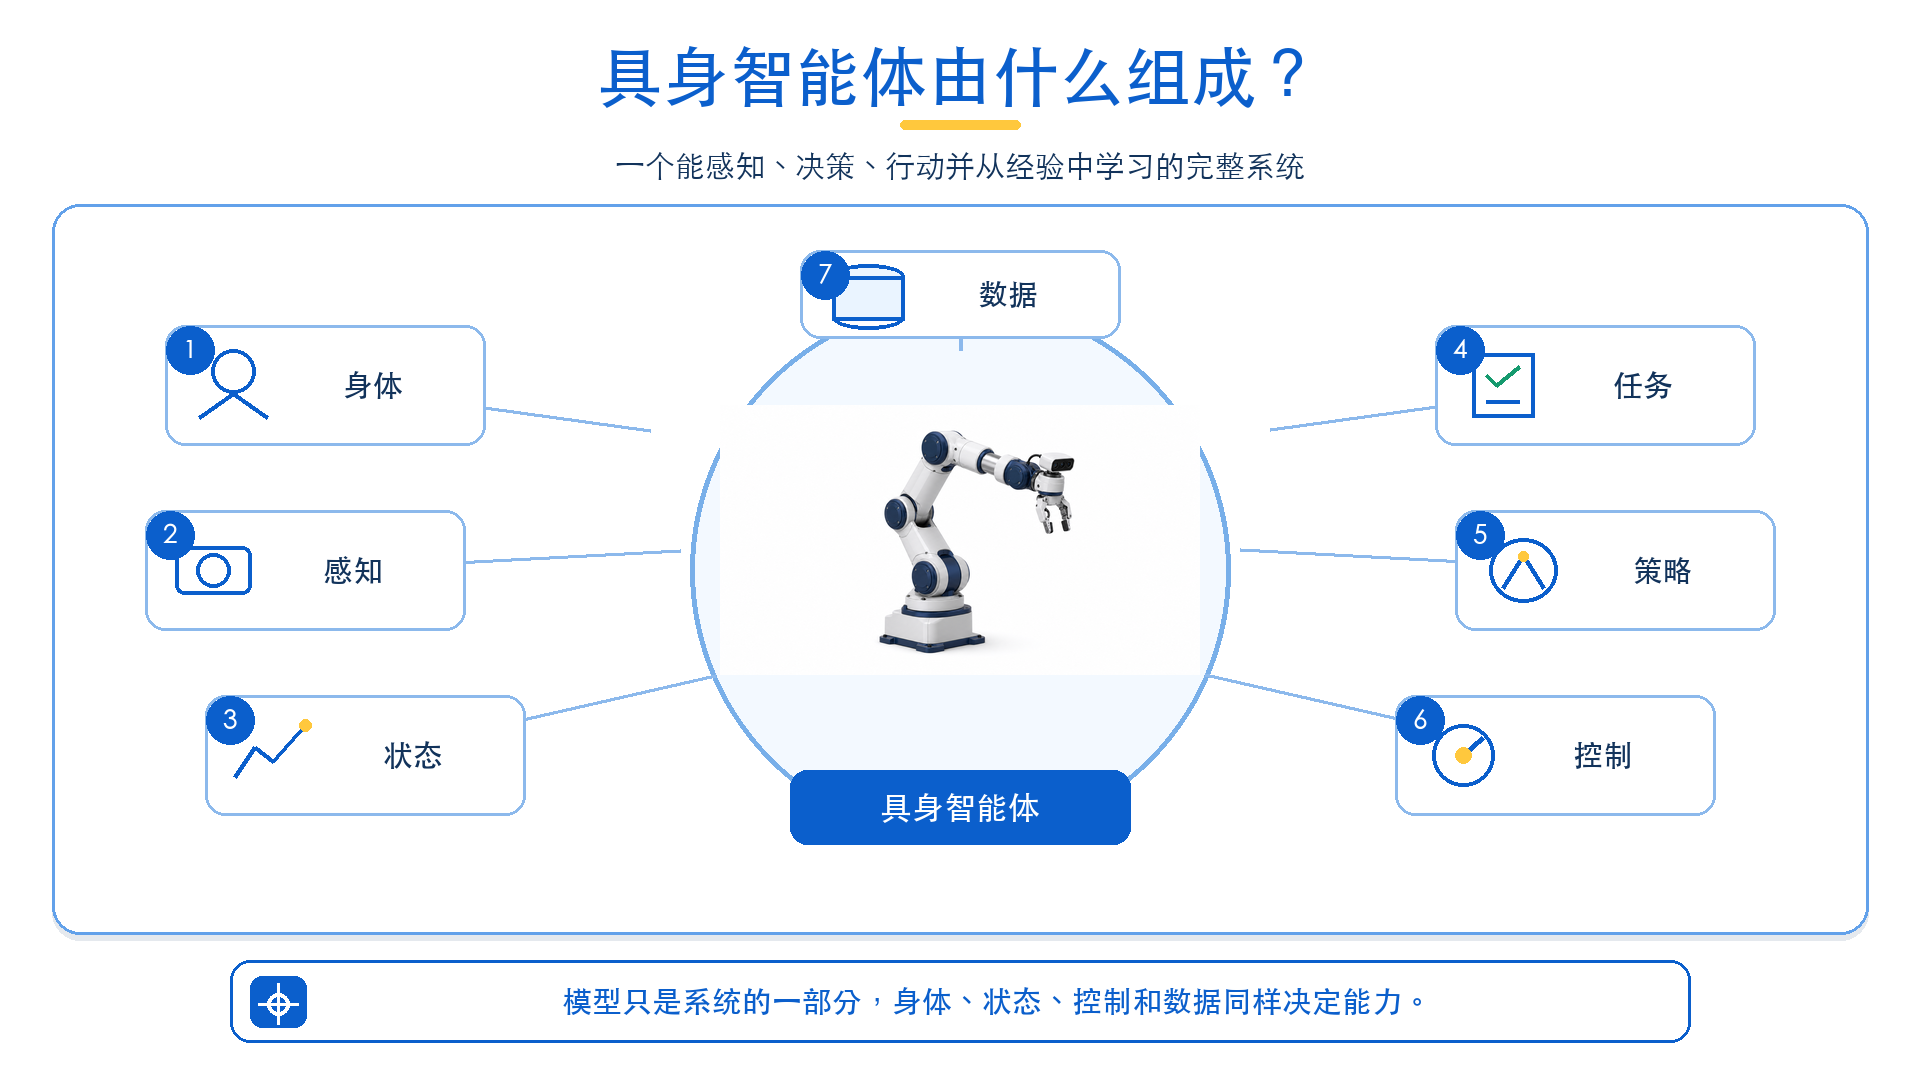
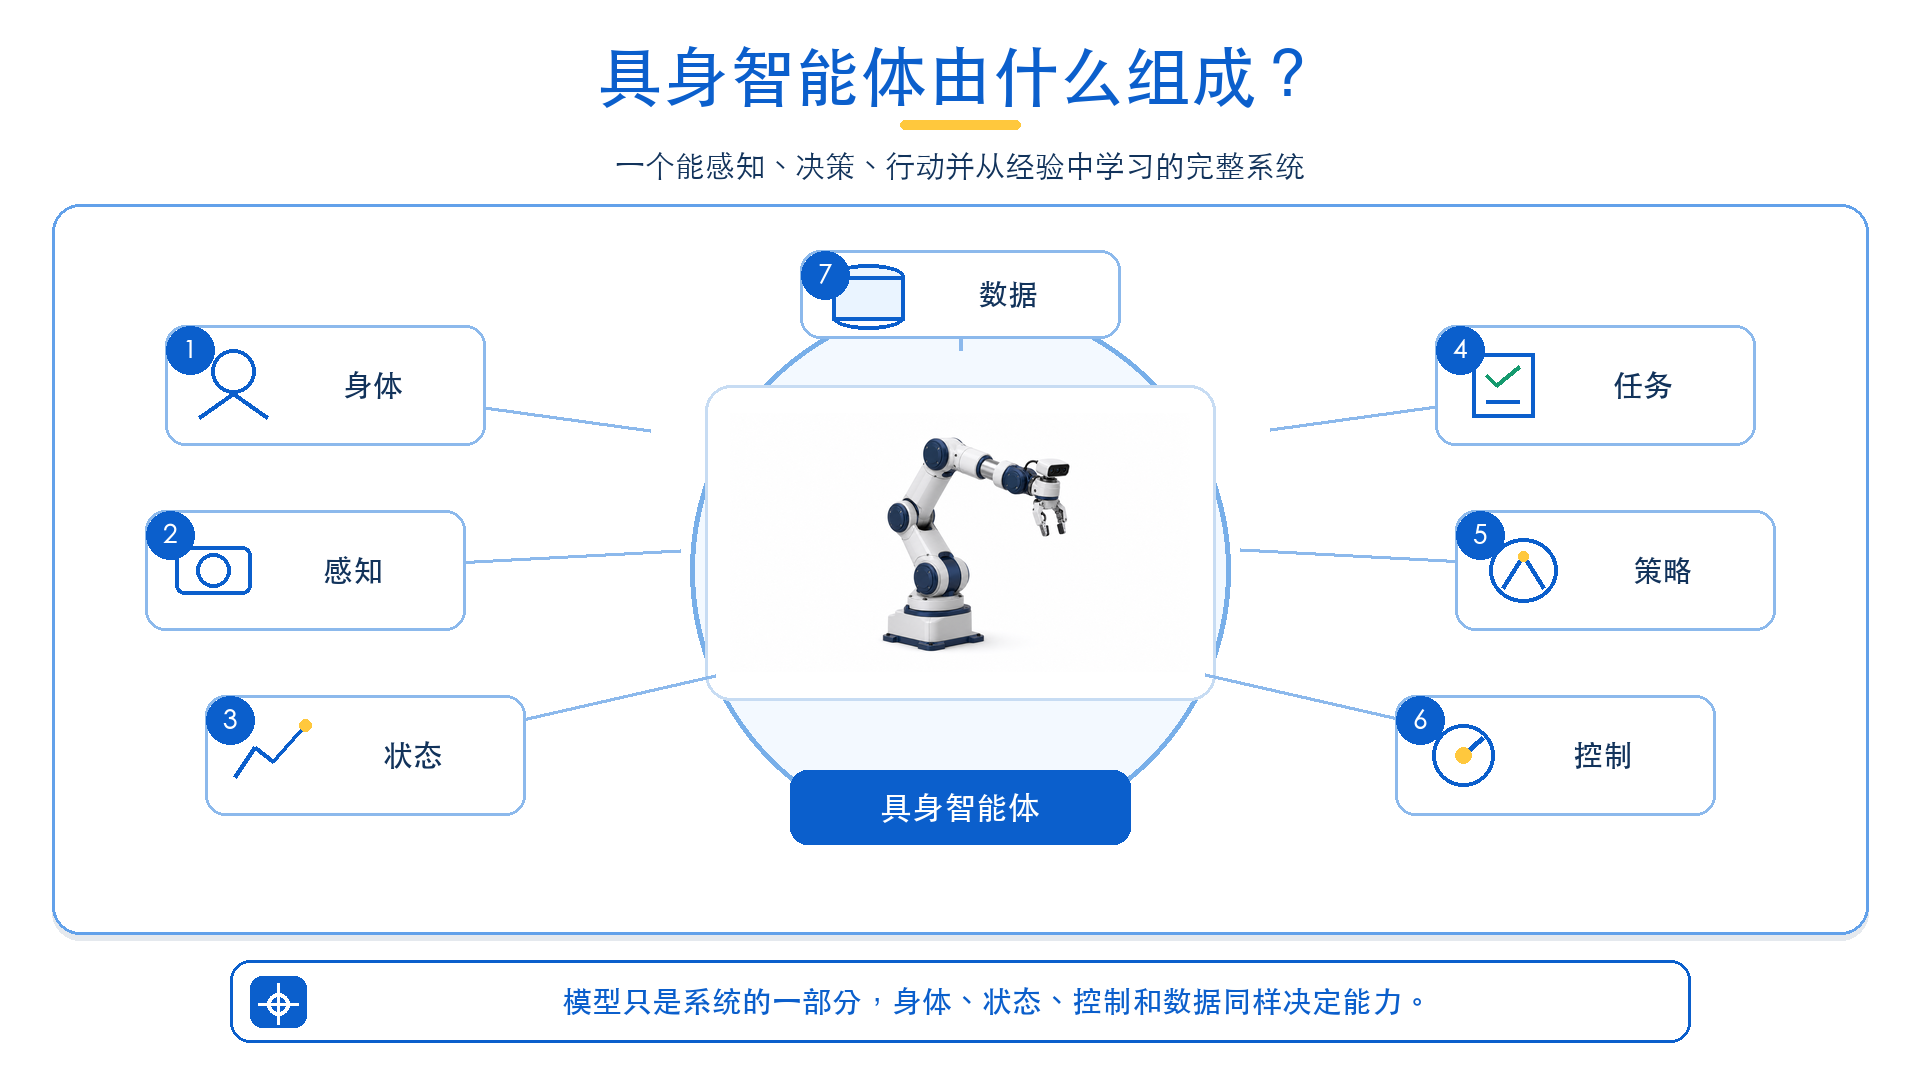
修复概念图审查问题

diff --git a/tools/lecture_infographics/render.py b/tools/lecture_infographics/render.py
@@ -12,15 +12,14 @@ from .components import (
     fit_text,
     font,
 )
+from .layouts_a import render_a
 from .manifest import FigureSpec
 from .theme import THEME
-from .layouts_a import render_a
 
 
 W, H = 1920, 1080
 BLUE = THEME.primary
 NAVY = THEME.primary_dark
-CYAN = THEME.primary_soft
 YELLOW = THEME.accent
 TEXT = THEME.text
 MUTED = THEME.muted
@@ -28,168 +27,11 @@ WHITE = THEME.canvas
 SRGB_PROFILE = ImageCms.ImageCmsProfile(ImageCms.createProfile("sRGB")).tobytes()
 
 
-def robot_arm(draw: ImageDraw.ImageDraw, x: int, y: int, scale: float = 1.0,
-              color: str = "#E8EDF3") -> None:
-    """Draw a clean, textbook-style six-axis robot arm."""
-    def p(dx: int, dy: int) -> tuple[int, int]:
-        return x + int(dx * scale), y + int(dy * scale)
-    def joint(cx: int, cy: int, r: int) -> None:
-        px, py = p(cx, cy)
-        rr = int(r * scale)
-        draw.ellipse((px - rr, py - rr, px + rr, py + rr), fill=WHITE, outline=NAVY, width=max(2, int(4 * scale)))
-        draw.ellipse((px - rr // 2, py - rr // 2, px + rr // 2, py + rr // 2), fill=BLUE)
-    width = max(12, int(34 * scale))
-    draw.rounded_rectangle((*p(-85, 125), *p(85, 170)), radius=int(18 * scale), fill="#CBD5E1", outline=NAVY, width=3)
-    draw.line((*p(0, 128), *p(-8, 54)), fill=color, width=width)
-    draw.line((*p(-8, 54), *p(58, -28)), fill=color, width=width)
-    draw.line((*p(58, -28), *p(130, 20)), fill=color, width=width)
-    joint(0, 112, 31); joint(-8, 54, 27); joint(58, -28, 25); joint(130, 20, 22)
-    draw.line((*p(130, 20), *p(157, 58)), fill=NAVY, width=max(5, int(10 * scale)))
-    draw.line((*p(157, 58), *p(147, 83)), fill=NAVY, width=max(4, int(7 * scale)))
-    draw.line((*p(157, 58), *p(170, 80)), fill=NAVY, width=max(4, int(7 * scale)))
-
-
-def sensor_icon(draw: ImageDraw.ImageDraw, x: int, y: int, kind: str) -> None:
-    if kind == "camera":
-        rounded(draw, (x - 58, y - 38, x + 58, y + 38), fill="#243B53", outline=NAVY, width=3, radius=12)
-        draw.ellipse((x - 25, y - 25, x + 25, y + 25), fill="#72D4FF", outline=WHITE, width=5)
-        draw.ellipse((x - 9, y - 9, x + 9, y + 9), fill=BLUE)
-    elif kind == "compute":
-        rounded(draw, (x - 56, y - 48, x + 56, y + 48), fill="#EAF5FF", outline=BLUE, width=4, radius=12)
-        for k in range(-2, 3):
-            draw.line((x - 72, y + k * 16, x - 56, y + k * 16), fill=BLUE, width=4)
-            draw.line((x + 56, y + k * 16, x + 72, y + k * 16), fill=BLUE, width=4)
-        draw.rectangle((x - 25, y - 22, x + 25, y + 22), fill=BLUE)
-    elif kind == "shield":
-        draw.polygon([(x, y - 58), (x + 50, y - 36), (x + 42, y + 28), (x, y + 62), (x - 42, y + 28), (x - 50, y - 36)], fill="#EAF8F2", outline="#1A9B67")
-        draw.line((x - 22, y, x - 5, y + 18, x + 27, y - 23), fill="#1A9B67", width=9)
-    else:
-        draw.ellipse((x - 48, y - 48, x + 48, y + 48), fill=CYAN, outline=BLUE, width=4)
-        draw.text((x, y), kind[:1], font=font(38, True), fill=BLUE, anchor="mm")
-
-
 def pill(draw: ImageDraw.ImageDraw, box: tuple[int, int, int, int], text_value: str,
          fill: str = WHITE, outline: str = "#8CB9EC", text_fill: str = TEXT,
          size: int = 26, bold: bool = True) -> None:
     rounded(draw, box, fill=fill, outline=outline, width=2, radius=16)
     fit_text(draw, text_value, box, size, 24, bold, text_fill)
-
-
-def visual_1_1(draw: ImageDraw.ImageDraw, spec: FigureSpec) -> None:
-    rounded(draw, (125, 300, 795, 830), fill="#F4F7FB", outline="#B4C8E0")
-    rounded(draw, (1125, 300, 1795, 830), fill=CYAN, outline=BLUE)
-    draw.text((460, 350), "数字 AI", font=font(42, True), fill=NAVY, anchor="mm")
-    draw.text((1460, 350), "具身智能", font=font(42, True), fill=NAVY, anchor="mm")
-    rounded(draw, (275, 430, 645, 625), fill=WHITE, outline="#86A9CE")
-    for i, width in enumerate((240, 190, 220, 145)):
-        draw.rounded_rectangle((330, 470 + i * 30, 330 + width, 482 + i * 30), radius=6, fill="#7C9CBE")
-    draw.text((460, 690), "输出信息", font=font(32, True), fill=MUTED, anchor="mm")
-    robot_arm(draw, 1415, 500, .9)
-    draw.rectangle((1260, 730, 1630, 757), fill="#D8E1EA")
-    draw.ellipse((1560, 660, 1620, 720), fill=YELLOW, outline="#C79400", width=3)
-    arrow(draw, (820, 565), (1090, 565), color=BLUE, width=10)
-    draw.text((955, 515), "行动", font=font(31, True), fill=BLUE, anchor="mm")
-    draw.arc((815, 600, 1095, 780), 10, 170, fill="#B66B0D", width=7)
-    draw.text((955, 780), "环境反馈", font=font(28, True), fill="#B66B0D", anchor="mm")
-
-
-def visual_1_2(draw: ImageDraw.ImageDraw, spec: FigureSpec) -> None:
-    cx, cy = 960, 575
-    draw.ellipse((760, 375, 1160, 775), fill="#F2F8FF", outline=BLUE, width=5)
-    robot_arm(draw, 915, 470, .62)
-    draw.text((960, 720), "具身智能体", font=font(34, True), fill=BLUE, anchor="mm")
-    positions = [(360, 350), (620, 300), (1300, 300), (1560, 350), (420, 760), (730, 850), (1490, 760)]
-    for index, (label, (x, y)) in enumerate(zip(spec.labels, positions)):
-        arrow(draw, (cx + (-1 if x < cx else 1) * 205, cy), (x + (70 if x < cx else -70), y), color="#8AB5E9", width=4)
-        draw.ellipse((x - 78, y - 78, x + 78, y + 78), fill=WHITE, outline=BLUE, width=4)
-        draw.text((x, y - 9), str(index + 1), font=font(28, True), fill=YELLOW, anchor="mm")
-        draw.text((x, y + 30), label, font=font(28, True), fill=NAVY, anchor="mm")
-
-
-def visual_1_4(draw: ImageDraw.ImageDraw, spec: FigureSpec) -> None:
-    x_positions = (220, 570, 920, 1270, 1620)
-    heights = (215, 285, 355, 425, 495)
-    colors = ("#EAF5FF", "#F2F8FF", "#EAF8F2", "#FFF6D7", "#FFF0E9")
-    for i, (label, x, h, color) in enumerate(zip(spec.labels, x_positions, heights, colors)):
-        y2 = 845
-        rounded(draw, (x - 135, y2 - h, x + 135, y2), fill=color, outline=BLUE, radius=24)
-        draw.ellipse((x - 48, y2 - h + 35, x + 48, y2 - h + 131), fill=WHITE, outline=BLUE, width=3)
-        draw.text((x, y2 - h + 83), str(i + 1), font=font(34, True), fill=BLUE, anchor="mm")
-        fit_text(draw, label, (x - 115, y2 - h + 145, x + 115, y2 - 25), 31, 24, True)
-        if i:
-            arrow(draw, (x - 210, y2 - h // 2), (x - 150, y2 - h // 2), color="#83AEE0", width=5)
-    draw.text((960, 300), "可靠执行  →  从示范学习  →  探索优化  →  多模态泛化  →  预测未来",
-              font=font(28, True), fill=NAVY, anchor="mm")
-
-
-def visual_1_5(draw: ImageDraw.ImageDraw, spec: FigureSpec) -> None:
-    inputs = [(260, 390, "视觉", "camera"), (260, 560, "语言", "L"), (260, 730, "机器人状态", "S")]
-    for x, y, label, icon in inputs:
-        sensor_icon(draw, x, y, icon)
-        pill(draw, (340, y - 43, 600, y + 43), label)
-        arrow(draw, (610, y), (760, 570), width=6)
-    rounded(draw, (770, 380, 1135, 760), fill="#EEF5FF", outline=BLUE, width=4)
-    draw.text((952, 445), "VLA", font=font(62, True), fill=BLUE, anchor="mm")
-    draw.text((952, 525), "多模态融合", font=font(32, True), fill=NAVY, anchor="mm")
-    draw.text((952, 585), "理解任务与场景", font=font(25), fill=MUTED, anchor="mm")
-    draw.text((952, 635), "生成动作建议", font=font(25), fill=MUTED, anchor="mm")
-    arrow(draw, (1145, 570), (1270, 570), width=8)
-    pill(draw, (1280, 430, 1535, 545), "动作建议", fill="#FFF7DC", outline="#E0B027", size=31)
-    arrow(draw, (1408, 560), (1408, 650), color="#1A9B67", width=7)
-    pill(draw, (1260, 665, 1555, 800), "控制与安全", fill="#ECF9F4", outline="#42A982", text_fill="#147A58", size=31)
-    robot_arm(draw, 1700, 570, .45)
-
-
-def visual_1_6(draw: ImageDraw.ImageDraw, spec: FigureSpec) -> None:
-    rounded(draw, (105, 350, 490, 795), fill="#F8FBFF")
-    draw.text((298, 400), "当前场景", font=font(34, True), fill=NAVY, anchor="mm")
-    robot_arm(draw, 250, 510, .55)
-    draw.rectangle((180, 720, 420, 740), fill="#CAD4DE")
-    draw.ellipse((350, 650, 405, 705), fill=YELLOW, outline="#C79400")
-    arrow(draw, (510, 575), (640, 575), width=7)
-    draw.text((575, 525), "预演", font=font(28, True), fill=BLUE, anchor="mm")
-    branch_labels = spec.labels[1:4]
-    outcomes = ("碰撞风险", "遮挡目标", "成功概率高")
-    for i, (label, outcome) in enumerate(zip(branch_labels, outcomes)):
-        x = 655 + i * 360
-        rounded(draw, (x, 320, x + 320, 800), fill="#F7FBFF", outline="#87B4E7")
-        pill(draw, (x + 25, 345, x + 295, 415), label, fill="#EAF5FF")
-        robot_arm(draw, x + 115, 505, .45)
-        color = "#1A9B67" if i == 2 else "#D95B5B"
-        draw.ellipse((x + 115, 690, x + 205, 780), fill="#EFF8F5" if i == 2 else "#FFF0F0", outline=color, width=4)
-        draw.text((x + 160, 735), "✓" if i == 2 else "×", font=font(48, True), fill=color, anchor="mm")
-        draw.text((x + 160, 650), outcome, font=font(25, True), fill=color, anchor="mm")
-    pill(draw, (1465, 455, 1795, 680), "选择更稳妥\n的动作", fill="#ECF9F4", outline="#1A9B67", text_fill="#147A58", size=33)
-
-
-def visual_1_8(draw: ImageDraw.ImageDraw, spec: FigureSpec) -> None:
-    scenes = spec.labels[:5]
-    for i, label in enumerate(scenes):
-        x1 = 100 + i * 345
-        y2, h = 815, 180 + i * 90
-        draw.polygon([(x1, y2), (x1 + 290, y2), (x1 + 290, y2 - h), (x1, y2 - h + 55)], fill="#EAF5FF", outline=BLUE)
-        draw.text((x1 + 145, y2 - h + 85), str(i + 1), font=font(38, True), fill=BLUE, anchor="mm")
-        fit_text(draw, label, (x1 + 20, y2 - h + 120, x1 + 270, y2 - 18), 29, 24, True)
-    arrow(draw, (140, 855), (1765, 855), color="#B66B0D", width=7)
-    draw.text((950, 900), "开放性 · 任务时长 · 安全要求  持续上升", font=font(29, True), fill="#B66B0D", anchor="mm")
-
-
-def visual_2_1(draw: ImageDraw.ImageDraw, spec: FigureSpec, image: Image.Image,
-               asset_dir: Path) -> None:
-    asset_path = asset_dir / "robot-arm.png"
-    if asset_path.exists():
-        with Image.open(asset_path) as source:
-            source = source.convert("RGB").crop((280, 10, 1450, 930))
-            source.thumbnail((690, 535), Image.Resampling.LANCZOS)
-            image.paste(source, (960 - source.width // 2, 545 - source.height // 2))
-    else:
-        robot_arm(draw, 890, 470, 1.05)
-    components = [(300, 360, "本体与机构", "机"), (300, 620, "传感器", "camera"), (610, 815, "执行器", "动"),
-                  (1310, 815, "计算平台", "compute"), (1615, 620, "通信与同步", "联"), (1615, 360, "电源与安全", "shield")]
-    for x, y, label, icon in components:
-        sensor_icon(draw, x, y, icon)
-        pill(draw, (x - 120, y + 70, x + 120, y + 135), label, size=24)
-        arrow(draw, (x + (90 if x < 960 else -90), y), (850 if x < 960 else 1070, 590), color="#8AB5E9", width=4)
 
 
 def visual_2_2(draw: ImageDraw.ImageDraw, spec: FigureSpec) -> None:
@@ -249,26 +91,6 @@ def visual_2_4(draw: ImageDraw.ImageDraw, spec: FigureSpec) -> None:
         pill(draw, (x, 675, x + 185, 790), item, fill=WHITE, outline="#D8A0A0", text_fill="#8B3D3D", size=26)
 
 
-def generic_a(draw: ImageDraw.ImageDraw, spec: FigureSpec) -> None:
-    labels = spec.labels
-    count = len(labels)
-    cols = min(4, count)
-    rows = (count + cols - 1) // cols
-    card_w, card_h = 330, 190
-    gap_x, gap_y = 62, 52
-    total_w = cols * card_w + (cols - 1) * gap_x
-    left = (W - total_w) // 2
-    top = 292 if rows == 2 else 390
-    for index, label in enumerate(labels):
-        row, col = divmod(index, cols)
-        x = left + col * (card_w + gap_x)
-        y = top + row * (card_h + gap_y)
-        rounded(draw, (x, y, x + card_w, y + card_h), fill="#F7FBFF", outline="#75ADEB")
-        draw.ellipse((x + 125, y + 24, x + 205, y + 104), fill=CYAN, outline=BLUE, width=4)
-        draw.text((x + 165, y + 64), str(index + 1), font=font(34, True), fill=BLUE, anchor="mm")
-        fit_text(draw, label, (x + 20, y + 112, x + card_w - 20, y + card_h - 12), 31, 24, True)
-
-
 def generic_b(draw: ImageDraw.ImageDraw, spec: FigureSpec) -> None:
     steps = spec.steps
     count = len(steps)
@@ -321,19 +143,10 @@ def render_figure(spec: FigureSpec, asset_dir: Path, output: Path) -> None:
         return
     header(draw, spec)
     custom = {
-        "1-1": visual_1_1,
-        "1-2": visual_1_2,
-        "1-4": visual_1_4,
-        "1-5": visual_1_5,
-        "1-6": visual_1_6,
-        "1-8": visual_1_8,
-        "2-1": visual_2_1,
         "2-2": visual_2_2,
         "2-4": visual_2_4,
     }.get(spec.key)
-    if spec.key == "2-1":
-        visual_2_1(draw, spec, image, asset_dir)
-    elif custom:
+    if custom:
         custom(draw, spec)
     elif spec.template == "B":
         generic_b(draw, spec)

diff --git a/tools/lecture_infographics/layouts_a.py b/tools/lecture_infographics/layouts_a.py
@@ -26,6 +26,7 @@ MUTED = THEME.muted
 YELLOW = THEME.accent
 GREEN = THEME.success
 RED = THEME.danger
+HOUSEHOLD_SCENE_CUES = ("sofa", "floor_lamp", "coffee_table")
 
 
 def _asset_dir(asset_dir: Path) -> Path:
@@ -138,7 +139,8 @@ def draw_1_1(image: Image.Image, draw: ImageDraw.ImageDraw, spec: FigureSpec, as
 
 def draw_1_2(image: Image.Image, draw: ImageDraw.ImageDraw, spec: FigureSpec, asset_dir: Path) -> None:
     draw.ellipse((690, 300, 1230, 840), fill="#F3F9FF", outline="#78AFE9", width=5)
-    _paste_asset(image, asset_dir, "robot_arm_camera", (720, 330, 1200, 750))
+    draw_card(draw, (705, 385, 1215, 700), fill=WHITE, outline="#C7DCF3", radius=26)
+    _paste_asset(image, asset_dir, "robot_arm_camera", (730, 405, 1190, 680))
     _pill(draw, (790, 770, 1130, 844), "具身智能体", fill=BLUE, outline=BLUE, text_fill=WHITE, size=32)
     items = [
         ((165, 325, 485, 445), "身体", "body", (650, 430)),
@@ -222,12 +224,42 @@ def draw_1_6(image: Image.Image, draw: ImageDraw.ImageDraw, spec: FigureSpec, as
             draw.text((x + 165, 842), "推荐", font=font(26, "bold"), fill=GREEN, anchor="mm")
 
 
+def _draw_household_scene(
+    draw: ImageDraw.ImageDraw,
+    box: tuple[int, int, int, int],
+) -> None:
+    x1, y1, x2, y2 = box
+    draw.rounded_rectangle(box, radius=18, fill=WHITE, outline="#C7DCF3", width=3)
+    floor_y = y2 - 54
+    draw.line((x1 + 14, floor_y, x2 - 14, floor_y), fill="#A9CBEF", width=4)
+    draw.rectangle((x1 + 28, y1 + 30, x1 + 104, y1 + 112), fill="#EAF4FF", outline="#7EAFE5", width=3)
+    draw.line((x1 + 66, y1 + 30, x1 + 66, y1 + 112), fill="#A9CBEF", width=3)
+    draw.line((x1 + 28, y1 + 71, x1 + 104, y1 + 71), fill="#A9CBEF", width=3)
+
+    sofa = (x1 + 28, floor_y - 88, x1 + 172, floor_y - 12)
+    draw.rounded_rectangle(sofa, radius=16, fill="#DCEBFA", outline=BLUE, width=4)
+    draw.rounded_rectangle((x1 + 38, floor_y - 120, x1 + 162, floor_y - 58), radius=14, fill="#EEF6FF", outline=BLUE, width=4)
+    draw.line((x1 + 100, floor_y - 112, x1 + 100, floor_y - 62), fill="#A9CBEF", width=3)
+    draw.line((x1 + 48, floor_y - 10, x1 + 45, floor_y + 3), fill=NAVY, width=4)
+    draw.line((x1 + 152, floor_y - 10, x1 + 155, floor_y + 3), fill=NAVY, width=4)
+
+    lamp_x = x2 - 50
+    draw.polygon(((lamp_x - 26, y1 + 70), (lamp_x + 26, y1 + 70), (lamp_x + 17, y1 + 108), (lamp_x - 17, y1 + 108)), fill="#FFF3C7", outline="#C89416")
+    draw.line((lamp_x, y1 + 108, lamp_x, floor_y - 5), fill=NAVY, width=5)
+    draw.ellipse((lamp_x - 28, floor_y - 8, lamp_x + 28, floor_y + 5), fill="#CCD7E3", outline=NAVY, width=3)
+
+    table_x = x1 + 185
+    draw.ellipse((table_x - 40, floor_y - 58, table_x + 40, floor_y - 32), fill="#E6EDF5", outline=NAVY, width=3)
+    draw.line((table_x - 24, floor_y - 34, table_x - 30, floor_y - 2), fill=NAVY, width=4)
+    draw.line((table_x + 24, floor_y - 34, table_x + 30, floor_y - 2), fill=NAVY, width=4)
+
+
 def draw_1_8(image: Image.Image, draw: ImageDraw.ImageDraw, spec: FigureSpec, asset_dir: Path) -> None:
     scenes = [
         ("桌面抓取", "desktop_pick", 610),
         ("移动操作", "mobile_manipulator", 540),
         ("工业 / 商超", "robot_arm", 470),
-        ("家庭服务", "mobile_manipulator", 400),
+        ("家庭服务", None, 400),
         ("人形机器人", "humanoid_robot", 330),
     ]
     for index, (label, asset_name, top) in enumerate(scenes):
@@ -235,7 +267,11 @@ def draw_1_8(image: Image.Image, draw: ImageDraw.ImageDraw, spec: FigureSpec, as
         bottom = 860
         draw_card(draw, (x, top, x + 312, bottom), fill="#F5FAFF", outline="#7CACDF", radius=22)
         _badge(draw, (x + 38, top + 38), index + 1)
-        _paste_asset(image, asset_dir, asset_name, (x + 18, top + 55, x + 294, bottom - 78))
+        scene_box = (x + 18, top + 55, x + 294, bottom - 78)
+        if asset_name is None:
+            _draw_household_scene(draw, scene_box)
+        else:
+            _paste_asset(image, asset_dir, asset_name, scene_box)
         _pill(draw, (x + 18, bottom - 78, x + 294, bottom - 15), label, fill=WHITE, outline="#91B9E5", size=27)
         if index < len(scenes) - 1:
             draw_arrow(draw, (x + 312, top + 95), (x + 344, top + 68), semantic="secondary", width=4)
@@ -245,7 +281,8 @@ def draw_1_8(image: Image.Image, draw: ImageDraw.ImageDraw, spec: FigureSpec, as
 
 def draw_2_1(image: Image.Image, draw: ImageDraw.ImageDraw, spec: FigureSpec, asset_dir: Path) -> None:
     draw.ellipse((620, 275, 1300, 895), fill="#F2F8FF", outline="#7AAFE8", width=5)
-    _paste_asset(image, asset_dir, "robot_arm_camera", (650, 300, 1270, 835))
+    draw_card(draw, (625, 370, 1295, 770), fill=WHITE, outline="#C7DCF3", radius=28)
+    _paste_asset(image, asset_dir, "robot_arm_camera", (650, 395, 1270, 745))
     _pill(draw, (785, 814, 1135, 880), "机器人硬件系统", fill=BLUE, outline=BLUE, text_fill=WHITE, size=30)
     items = [
         ((105, 290, 480, 420), "本体与机构", "body", (665, 410)),

diff --git a/tools/lecture_infographics/test_render.py b/tools/lecture_infographics/test_render.py
@@ -143,6 +143,29 @@ class LayoutTests(unittest.TestCase):
         expected = {key for key, spec in figures.items() if spec.template == "A"}
         self.assertEqual(set(A_LAYOUTS), expected)
 
+    def test_household_stage_has_dedicated_scene_cues(self):
+        from tools.lecture_infographics.layouts_a import HOUSEHOLD_SCENE_CUES
+
+        self.assertEqual(
+            set(HOUSEHOLD_SCENE_CUES),
+            {"sofa", "floor_lamp", "coffee_table"},
+        )
+
+    def test_render_module_has_no_legacy_a_layouts(self):
+        from tools.lecture_infographics import render
+
+        legacy_names = {
+            "generic_a",
+            "visual_1_1",
+            "visual_1_2",
+            "visual_1_4",
+            "visual_1_5",
+            "visual_1_6",
+            "visual_1_8",
+            "visual_2_1",
+        }
+        self.assertTrue(legacy_names.isdisjoint(vars(render)))
+
 
 class RenderTests(unittest.TestCase):
     def test_render_figure_writes_1920_by_1080_png(self):
